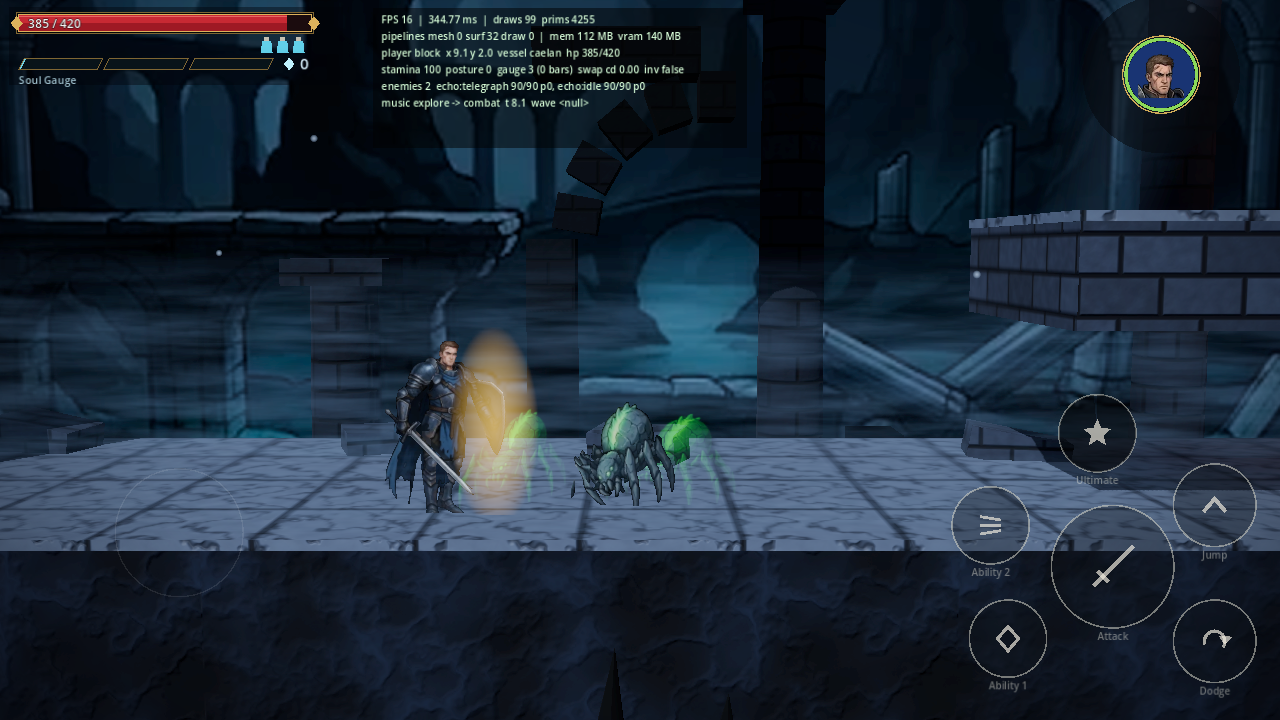
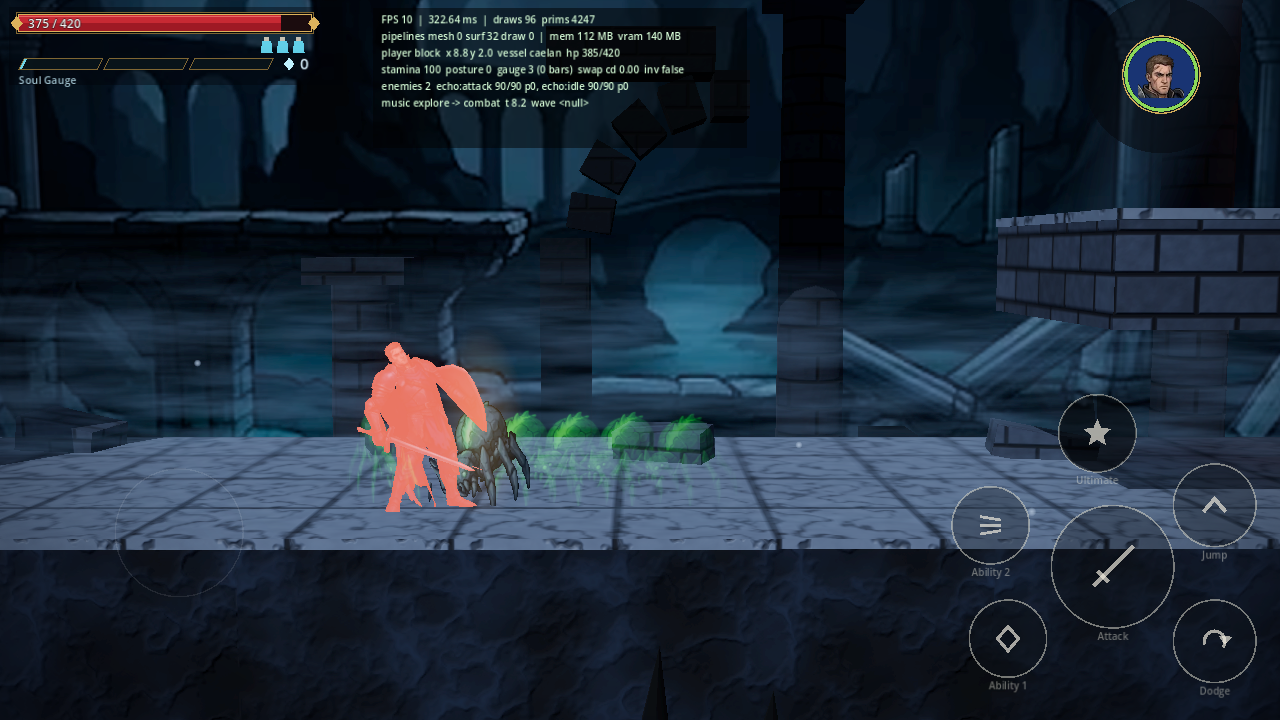
feat: rig tweaks - breathing idle, weighted run, landing and turn squash
Idle breathes and the head drifts out of step with the body; the run
compresses on each footfall with a steadied head and a swinging shield
arm; jumps stretch, landings and turns squash on a spring that rebounds
and settles. The Crawler's idle twitches and scans.

Story: M2 story 029 (decision D-034)

diff --git a/tools/playtest/rig_check.py b/tools/playtest/rig_check.py
@@ -50,6 +50,14 @@ def main():
         wait(b, 0.3)
         shot(b, OUT + "/12-block.png")
         b.call("release", action="ability_1")
+        # Jump in place: stretch on the way up, squash on landing.
+        wait(b, 0.4)
+        b.call("press", action="jump")
+        wait(b, 0.12)
+        b.call("release", action="jump")
+        for n, at in enumerate([0.1, 0.25, 0.2, 0.06, 0.06]):
+            wait(b, at)
+            shot(b, OUT + "/%02d-jump-%d.png" % (15 + n, n))
         st = b.call("game_state")
         log.append("end: room %s" % st.get("room"))
     with open(OUT + "/run-output.txt", "w") as f:

diff --git a/production/qa/evidence/story-029-cutout-rig/evidence.md b/production/qa/evidence/story-029-cutout-rig/evidence.md
@@ -50,3 +50,18 @@ User asked to tweak the pilot before the rest of the cast. Changed:
 
 Shots 01-14 were retaken after these changes. Tests: 12 in `rig_body_test.gd` (easing, cape
 trail and settle, a teleport does not fling the cape, squash); full suite 210 pass.
+
+## Second tweak pass (2026-11-17)
+
+- Idle breathes: a slow rise of the whole body (about 1 %), the head drifting out of step with
+  the torso, small arm, sword and shield shifts (3.4 s loop).
+- Run has weight: the body compresses on each footfall and rises on the passing step, the head
+  steadies against the lean, and the shield arm swings against the sword arm.
+- Jumps stretch on take-off; landing squashes the body on a spring that rebounds and settles in
+  about half a second; turning round gives a small squash so the flip does not snap
+  (`kicks` in the rig data).
+- The Crawler's idle twitches its legs out of step and scans with its head.
+
+New shots `15-jump-0.png` to `19-jump-4.png`: in the air (knee tucked, cape lifted), then the
+landing (body compressed, cape flaring). Tests: 14 in `rig_body_test.gd` (adds the landing squash
+peak and settle, and the turn squash).
